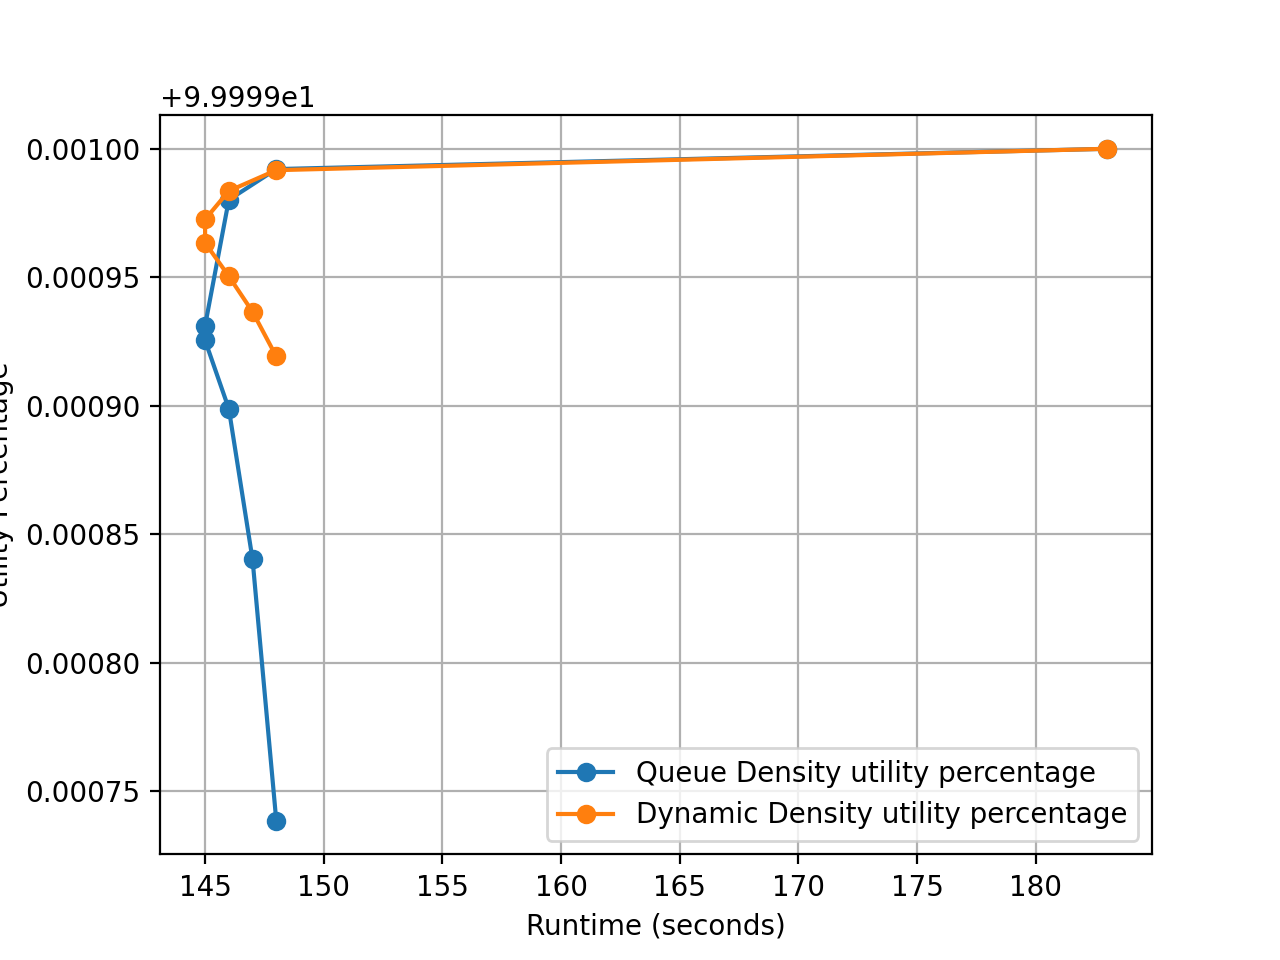
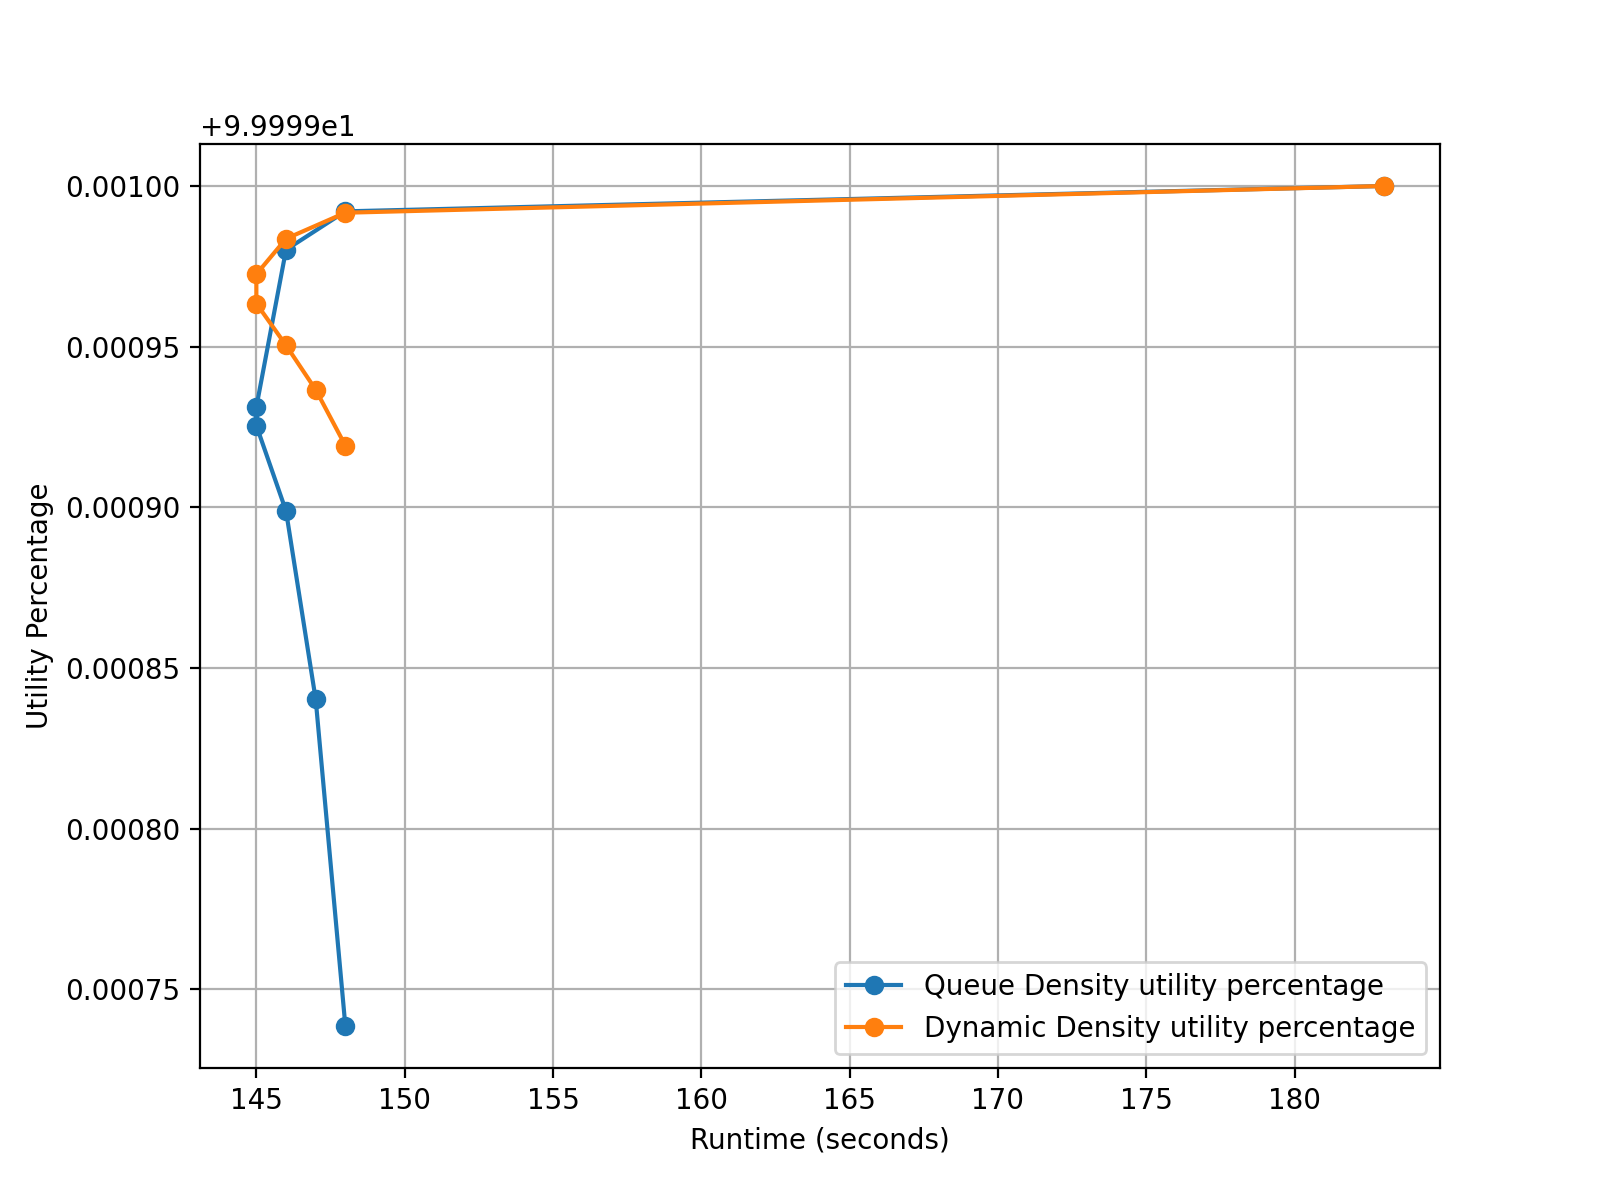
minor fixes

diff --git a/Analysis/outputs/method3sys2/plot_method3.py b/Analysis/outputs/method3sys2/plot_method3.py
@@ -83,6 +83,8 @@ def main():
 	plt.plot(th,d,label="Dynamic Density utility percentage",marker='o')
 	plt.legend()
 	plt.grid()
+	fig=plt.gcf();
+	fig.set_size_inches(8,6)
 	plt.savefig("plot3.png",dpi=200)
 	plt.show()
 	
@@ -93,6 +95,8 @@ def main():
 	plt.plot(ti,d,label="Dynamic Density utility percentage",marker='o')
 	plt.legend()
 	plt.grid()
+	fig=plt.gcf();
+	fig.set_size_inches(8,6)
 	plt.savefig("plot4.png",dpi=200)
 	plt.show()
 	
